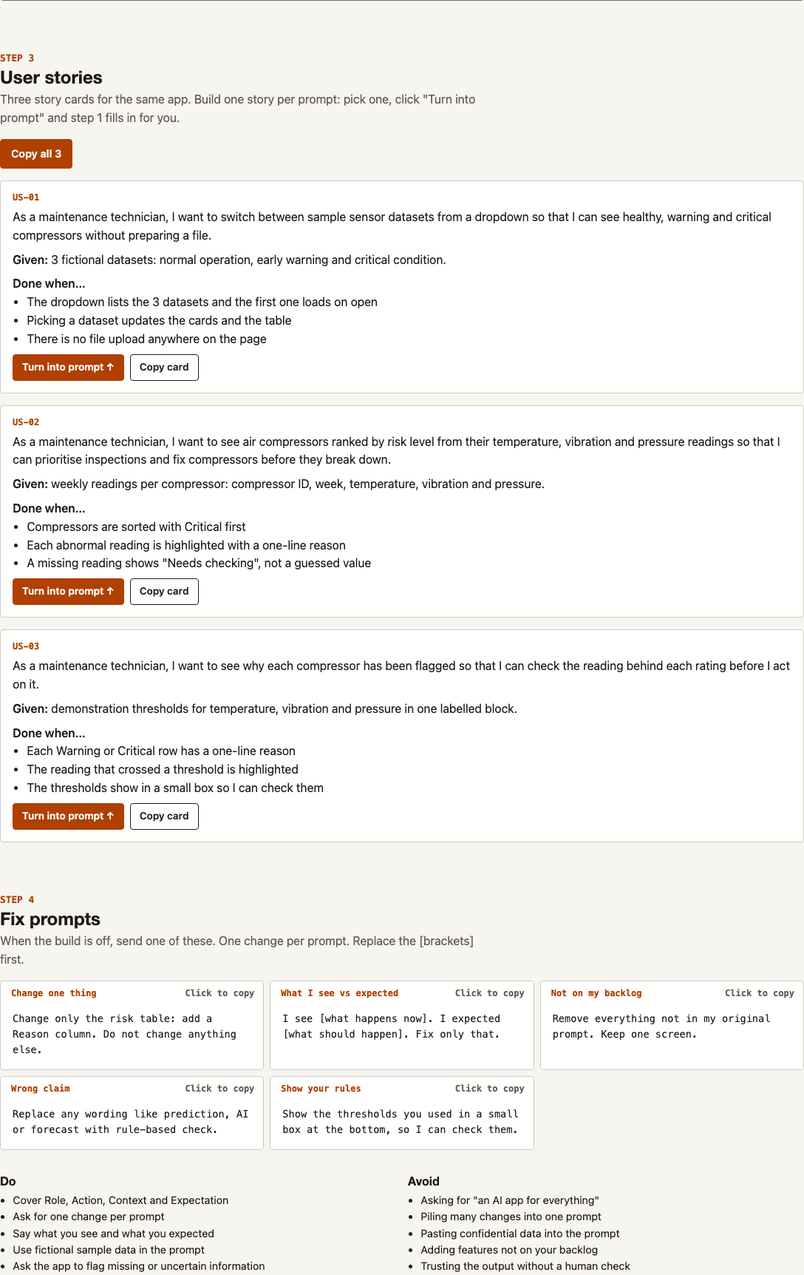
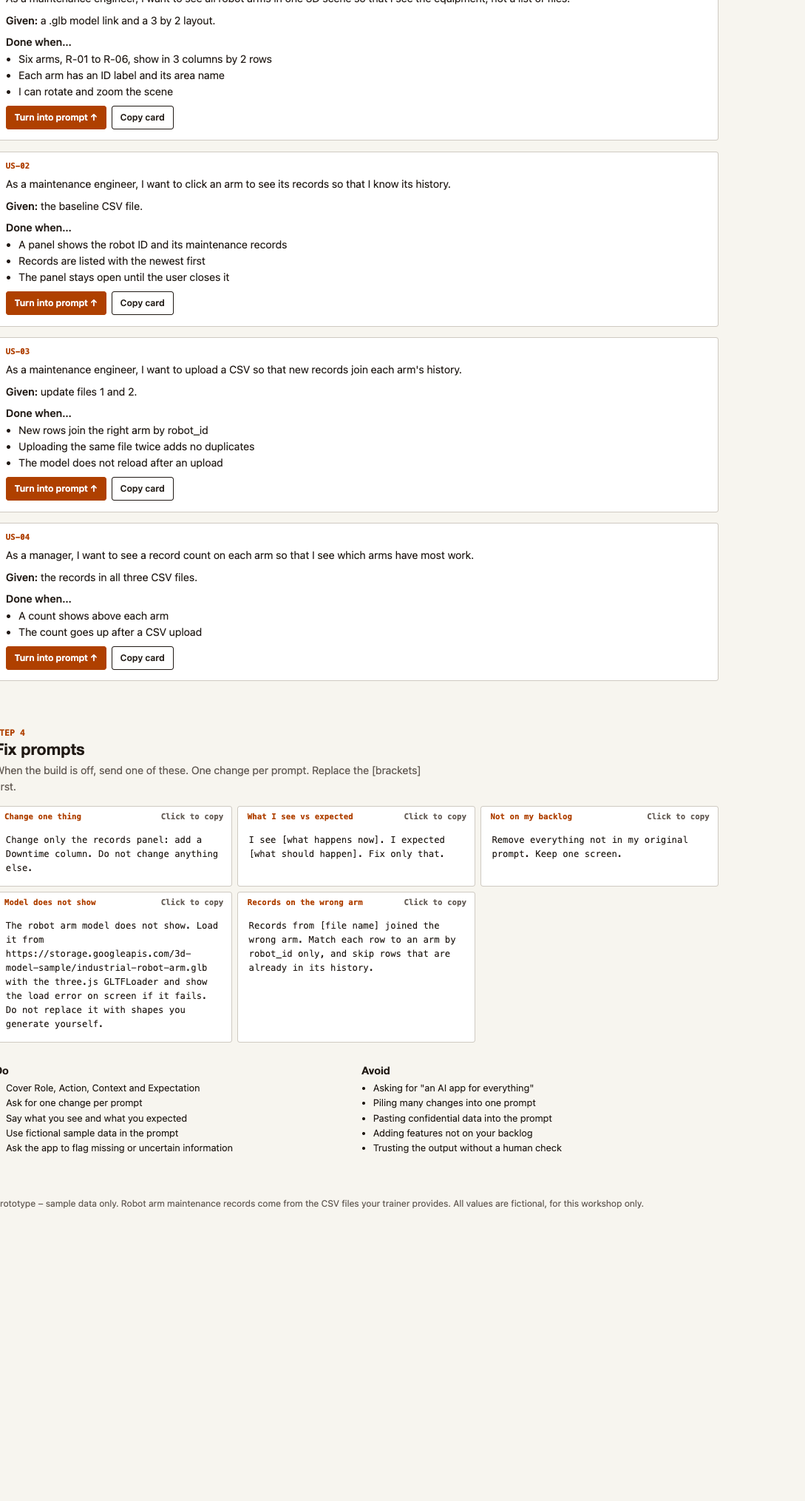
feat(cheatsheet): switch the whole page to the robot arm use case from deck v2.1
Deck v2.1 drops the air compressor example. Step 1 example is the click
story (slides 29-30), step 2 is the slide 52 live demo prompt only, step 3
has the four slide 29 story cards, fix prompts target the robot arm. The
template follows slide 47: data is provided, no built-in samples dropdown.

diff --git a/training-cheatsheet/index.html b/training-cheatsheet/index.html
@@ -166,10 +166,10 @@ footer { padding: var(--space-xl) 0 var(--space-lg); color: var(--color-muted); 
 
 <header class="top">
   <h1>AI Ideation Cheatsheet</h1>
-  <p class="lede">Write one story card. Each line of the card fills one part of a RACE prompt: Role, Action, Context, Expectation. Copy the prompt and paste it into your AI tool. Training exercise: air compressor health monitor.</p>
+  <p class="lede">Write one story card. Each line of the card fills one part of a RACE prompt: Role, Action, Context, Expectation. Copy the prompt and paste it into your AI tool. Training exercise: robot arm maintenance viewer.</p>
   <nav class="jump" aria-label="Sections">
     <a href="#notepad">1 Story card to prompt</a>
-    <a href="#sample">2 Sample prompts</a>
+    <a href="#sample">2 Sample prompt</a>
     <a href="#stories">3 User stories</a>
     <a href="#fix">4 Fix prompts</a>
   </nav>
@@ -195,7 +195,7 @@ footer { padding: var(--space-xl) 0 var(--space-lg); color: var(--color-muted); 
         <div class="field">
           <label for="f-user">As a [user]</label>
           <span class="hint">Tells the AI who it is building for. Write one job title, not "everyone".</span>
-          <input type="text" id="f-user" placeholder="maintenance technician">
+          <input type="text" id="f-user" placeholder="maintenance engineer">
         </div>
       </fieldset>
 
@@ -204,7 +204,7 @@ footer { padding: var(--space-xl) 0 var(--space-lg); color: var(--color-muted); 
         <div class="field">
           <label for="f-want">I want to [action]</label>
           <span class="hint">The one thing they do on the screen. Start with a verb. One story, one action.</span>
-          <input type="text" id="f-want" placeholder="see air compressors ranked by risk level">
+          <input type="text" id="f-want" placeholder="click an arm to see its records">
         </div>
       </fieldset>
 
@@ -213,22 +213,17 @@ footer { padding: var(--space-xl) 0 var(--space-lg); color: var(--color-muted); 
         <div class="field">
           <label for="f-so">So that [benefit]</label>
           <span class="hint">Why it matters to them. The AI uses it to decide what to put first; you test the build against it.</span>
-          <input type="text" id="f-so" placeholder="I can prioritise inspections before a breakdown">
+          <input type="text" id="f-so" placeholder="I know its history">
         </div>
         <div class="field">
           <label for="f-given">Given [data]</label>
-          <span class="hint">What the app works on. Name the readings or records and their columns, not a file type.</span>
-          <input type="text" id="f-given" placeholder="weekly readings per compressor: ID, week, temperature, vibration, pressure">
-        </div>
-        <div class="field">
-          <label for="f-cases">Fictional samples</label>
-          <span class="hint">The app builds these in, with a dropdown to switch, so nobody has to prepare a file. Write 3 lines: a name, then what you would see in the data (symptoms, not a label).</span>
-          <textarea id="f-cases" rows="3" placeholder="Normal Operation: temperature, vibration and pressure stay flat for all compressors&#10;Early Warning: ...&#10;Critical Condition: ..."></textarea>
+          <span class="hint">The files you give the app. Name them and their columns, so the AI does not make up its own data.</span>
+          <input type="text" id="f-given" placeholder="the baseline CSV file: date, robot_id, maintenance_type, technician, description, downtime_hours">
         </div>
         <div class="field">
           <label for="f-rules">Layout or rules <span class="from">optional</span></label>
-          <span class="hint">Fixed reference info the AI must not make up, such as limits or how to classify.</span>
-          <input type="text" id="f-rules" placeholder="Classify with demonstration thresholds kept in one labelled block">
+          <span class="hint">Fixed reference info the AI must not make up, such as the model link, the layout or names.</span>
+          <input type="text" id="f-rules" placeholder="Six arms, R-01 to R-06, in 3 columns by 2 rows">
         </div>
       </fieldset>
 
@@ -237,33 +232,33 @@ footer { padding: var(--space-xl) 0 var(--space-lg); color: var(--color-muted); 
         <div class="two">
           <div class="field">
             <label for="f-result">Show [result]</label>
-            <span class="hint">Name the columns or fields on screen.</span>
-            <input type="text" id="f-result" placeholder="compressor ID, readings, risk level, reason">
+            <span class="hint">Name what is on screen and the fields it shows.</span>
+            <input type="text" id="f-result" placeholder="the robot ID and its maintenance records">
           </div>
           <div class="field">
             <label for="f-fmt">as [layout]</label>
-            <span class="hint">Tables suit comparing, cards suit a quick status check.</span>
-            <select id="f-fmt"><option>table and cards</option><option>table</option><option>cards</option><option>list</option></select>
+            <span class="hint">Where it shows up on the screen.</span>
+            <select id="f-fmt"><option>a 3D scene with a records panel</option><option>table and cards</option><option>table</option><option>cards</option><option>list</option></select>
           </div>
         </div>
         <div class="field">
           <label for="f-done">Done when…</label>
           <span class="hint">2 or 3 checks you can see on screen. You read them aloud to test the build. One per line.</span>
-          <textarea id="f-done" rows="3" placeholder="Compressors are sorted with Critical first&#10;Each abnormal reading has a one-line reason&#10;A missing reading shows &quot;Needs checking&quot;"></textarea>
+          <textarea id="f-done" rows="3" placeholder="A panel shows the robot ID and its maintenance records&#10;Records are listed with the newest first&#10;The panel stays open until the user closes it"></textarea>
         </div>
         <div class="two">
           <div class="field">
             <label for="f-role">A [role] must review this</label>
             <span class="hint">The person who checks the output.</span>
-            <input type="text" id="f-role" placeholder="maintenance technician">
+            <input type="text" id="f-role" placeholder="maintenance engineer">
           </div>
           <div class="field">
             <label for="f-action">before [action]</label>
             <span class="hint">What needs a human check before it happens.</span>
-            <input type="text" id="f-action" placeholder="scheduling maintenance">
+            <input type="text" id="f-action" placeholder="planning maintenance">
           </div>
         </div>
-        <p class="dod">Definition of Done, already in every prompt: works with the sample data, shows the review note, shows the "Prototype – sample data only" label.</p>
+        <p class="dod">Definition of Done, already in every prompt: works with the provided files, shows the review note, shows the "Prototype – sample data only" label.</p>
         <div class="field">
           <label for="f-donts">Do NOT list</label>
           <span class="hint">What the AI must leave out, so the first build stays small and quick to check. One per line.</span>
@@ -272,7 +267,7 @@ footer { padding: var(--space-xl) 0 var(--space-lg); color: var(--color-muted); 
       </fieldset>
 
       <div class="row">
-        <button class="btn" id="btn-sample" type="button">Fill with compressor example</button>
+        <button class="btn" id="btn-sample" type="button">Fill with robot arm example</button>
         <button class="btn" id="btn-clear" type="button">Clear</button>
       </div>
     </div>
@@ -304,8 +299,8 @@ footer { padding: var(--space-xl) 0 var(--space-lg); color: var(--color-muted); 
 <!-- 2 SAMPLE PROMPT -->
 <section id="sample">
   <span class="step">STEP 2</span>
-  <h2>Sample prompts: ready to paste</h2>
-  <p class="sub">Two use cases as RACE prompts. Click a box to copy. The compressor prompt ends with a Do NOT block that keeps the build small. The robot arm prompt uses the three maintenance CSV files from your trainer, so it asks for a CSV upload and no sample data.</p>
+  <h2>Sample prompt: ready to paste</h2>
+  <p class="sub">The robot arm viewer from the live demo, as one RACE prompt that covers all four story cards. Click the box to copy. It loads the robot arm model from a link and uses the three maintenance CSV files from your trainer, so it asks for a CSV upload and no sample data.</p>
   <div class="stack" id="sample-prompt"></div>
 </section>
 
@@ -313,9 +308,9 @@ footer { padding: var(--space-xl) 0 var(--space-lg); color: var(--color-muted); 
 <section id="stories">
   <span class="step">STEP 3</span>
   <h2>User stories</h2>
-  <p class="sub">Three story cards for the same app. Build one story per prompt: pick one, click "Turn into prompt" and step 1 fills in for you.</p>
+  <p class="sub">Four story cards for the robot arm viewer. Build one story per prompt: pick one, click "Turn into prompt" and step 1 fills in for you.</p>
   <div class="row" style="margin-bottom: var(--space-md)">
-    <button class="btn primary" id="btn-copy-all" type="button">Copy all 3</button>
+    <button class="btn primary" id="btn-copy-all" type="button">Copy all 4</button>
   </div>
   <div class="stories" id="story-list"></div>
 </section>
@@ -351,34 +346,34 @@ footer { padding: var(--space-xl) 0 var(--space-lg); color: var(--color-muted); 
   </div>
 </section>
 
-<footer>Prototype – sample data only. All compressor data, thresholds and ratings are fictional. Robot arm maintenance records come from the CSV files your trainer provides.</footer>
+<footer>Prototype – sample data only. Robot arm maintenance records come from the CSV files your trainer provides. All values are fictional, for this workshop only.</footer>
 </div>
 
 <script>
-const DONTS = `add file upload, login, database, backend or file saving. Everything runs in the browser.
-call the results "predictions" or "AI". They are rule-based checks.
-invent values for missing data.
+const DONTS = `add login, database or backend. Everything runs in the browser.
+generate sample data or invent values for missing data. Use only the provided files.
+replace the provided model with shapes you generate yourself.
 add features that are not in this prompt: no extra pages, settings, export, alerts or emails.
-add charts. Cards and a table only.
-use real company or equipment data.
-add libraries. One HTML file.`;
+add libraries other than three.js.`;
 
+const MODEL = 'https://storage.googleapis.com/3d-model-sample/industrial-robot-arm.glb';
+
+// Slide 30 sample answer: the click story with its done when checks
 const EXAMPLE = {
-  user: 'maintenance technician',
-  want: 'see air compressors ranked by risk level from their temperature, vibration and pressure readings',
-  so: 'I can prioritise inspections and fix compressors before they break down',
-  given: 'weekly readings per compressor: compressor ID, week, temperature, vibration and pressure',
-  cases: 'Normal Operation: temperature, vibration and pressure stay flat across all weeks for every compressor. No readings are missing.\nEarly Warning: 2 to 3 compressors show temperature creeping up week after week, vibration slowly rising, and occasional pressure dips. Nothing has crossed a limit yet.\nCritical Condition: several compressors run well above normal temperature with high, fast-rising vibration and repeated pressure drops. They need inspection now.',
-  rules: 'Classify with simple demonstration thresholds (Healthy, Warning, Critical). Keep the thresholds in one clearly labelled block so they are easy to edit.',
-  result: 'summary cards (Total, Healthy, Warning, Critical) and a risk ranking with compressor ID, readings, risk level, reason and recommended inspection',
-  fmt: 'table and cards',
-  done: 'Compressors are sorted with Critical first\nEach abnormal reading is highlighted with a one-line reason\nA missing reading shows "Needs checking", not a guessed value',
-  role: 'maintenance technician',
-  action: 'scheduling maintenance or shutting down equipment',
+  user: 'maintenance engineer',
+  want: 'click an arm to see its records',
+  so: 'I know its history',
+  given: 'the baseline CSV file of maintenance records, with columns date, robot_id, maintenance_type, technician, description and downtime_hours',
+  rules: `Load the robot arm model once from ${MODEL} with the three.js GLTFLoader and clone it for six arms, R-01 to R-06, in 3 columns by 2 rows, 6 units apart, with the area name under each arm: Stamping Shop, Body Shop, Paint Shop, Assembly Hall, Engine Plant, Warehouse.`,
+  result: 'the six arms and the clicked arm\'s ID and maintenance records',
+  fmt: 'a 3D scene with a records panel',
+  done: 'A panel shows the robot ID and its maintenance records\nRecords are listed with the newest first\nThe panel stays open until the user closes it',
+  role: 'maintenance engineer',
+  action: 'planning maintenance from these records',
   donts: DONTS
 };
 
-// Use case 2: copied as written, not built with buildPrompt(). It works on provided CSV files (slide 47), so it has no samples dropdown.
+// Slide 52 live demo prompt, copied as written, not built with buildPrompt(). It covers all four story cards.
 const ROBOT_ARM = `Role: You are a front-end developer building a prototype web app for maintenance engineers and managers at an automotive plant.
 
 Action: Build a one-screen three.js app: load a robot arm model (.glb) from a public URL and show six arms, R-01 to R-06, in one 3D scene. Clicking an arm selects it and shows its maintenance records; uploading a CSV adds rows to its history.
@@ -388,25 +383,30 @@ Context: Load the robot arm model from this URL using the three.js GLTFLoader: h
 Expectation: Show a "Loading model..." message while the model downloads. If it fails to load, show a clear error message with the reason instead of an empty scene. Each arm has an ID label, and the user can rotate and zoom. Clicking an arm highlights it and opens a panel with all the arm's records, newest first. The panel stays open when the pointer moves away; it closes only with the close button, a click on an empty area, or a click on a different arm, which replaces the content. A drag to rotate or pan must not count as a click. Load the model and build the scene once at startup; selecting an arm, zooming, panning and CSV updates must never reload the model or rebuild the scene. New CSV rows join the right arm without duplicates, and each arm shows its record count.`;
 
 const STORIES = [
-  { id: 'US-01', user: 'maintenance technician',
-    want: 'switch between sample sensor datasets from a dropdown',
-    so: 'I can see healthy, warning and critical compressors without preparing a file',
-    given: '3 fictional datasets: normal operation, early warning and critical condition',
-    done: 'The dropdown lists the 3 datasets and the first one loads on open\nPicking a dataset updates the cards and the table\nThere is no file upload anywhere on the page' },
-  { id: 'US-02', user: EXAMPLE.user, want: EXAMPLE.want, so: EXAMPLE.so, given: EXAMPLE.given, done: EXAMPLE.done },
-  { id: 'US-03', user: 'maintenance technician',
-    want: 'see why each compressor has been flagged',
-    so: 'I can check the reading behind each rating before I act on it',
-    given: 'demonstration thresholds for temperature, vibration and pressure in one labelled block',
-    done: 'Each Warning or Critical row has a one-line reason\nThe reading that crossed a threshold is highlighted\nThe thresholds show in a small box so I can check them' }
+  { id: 'US-01', user: 'maintenance engineer',
+    want: 'see all robot arms in one 3D scene',
+    so: 'I see the equipment, not a list of files',
+    given: 'a .glb model link and a 3 by 2 layout',
+    done: 'Six arms, R-01 to R-06, show in 3 columns by 2 rows\nEach arm has an ID label and its area name\nI can rotate and zoom the scene' },
+  { id: 'US-02', user: EXAMPLE.user, want: EXAMPLE.want, so: EXAMPLE.so, given: 'the baseline CSV file', done: EXAMPLE.done },
+  { id: 'US-03', user: 'maintenance engineer',
+    want: 'upload a CSV',
+    so: 'new records join each arm\'s history',
+    given: 'update files 1 and 2',
+    done: 'New rows join the right arm by robot_id\nUploading the same file twice adds no duplicates\nThe model does not reload after an upload' },
+  { id: 'US-04', user: 'manager',
+    want: 'see a record count on each arm',
+    so: 'I see which arms have most work',
+    given: 'the records in all three CSV files',
+    done: 'A count shows above each arm\nThe count goes up after a CSV upload' }
 ];
 
 const FIXES = [
-  ['Change one thing', 'Change only the risk table: add a Reason column. Do not change anything else.'],
+  ['Change one thing', 'Change only the records panel: add a Downtime column. Do not change anything else.'],
   ['What I see vs expected', 'I see [what happens now]. I expected [what should happen]. Fix only that.'],
   ['Not on my backlog', 'Remove everything not in my original prompt. Keep one screen.'],
-  ['Wrong claim', 'Replace any wording like prediction, AI or forecast with rule-based check.'],
-  ['Show your rules', 'Show the thresholds you used in a small box at the bottom, so I can check them.']
+  ['Model does not show', `The robot arm model does not show. Load it from ${MODEL} with the three.js GLTFLoader and show the load error on screen if it fails. Do not replace it with shapes you generate yourself.`],
+  ['Records on the wrong arm', 'Records from [file name] joined the wrong arm. Match each row to an arm by robot_id only, and skip rows that are already in its history.']
 ];
 
 /* copy helper */
@@ -469,19 +469,17 @@ function buildPrompt(d) {
   const so = val('so', 'benefit', 'C'), given = val('given', 'data', 'C');
   const result = val('result', 'result', 'E');
   const role = val('role', 'role', 'E'), action = val('action', 'action before review', 'E');
-  const cases = lines(d.cases), done = lines(d.done), donts = lines(d.donts);
-  if (!cases.length) { missing.add('samples'); letters.C = false; }
+  const done = lines(d.done), donts = lines(d.donts);
   if (!done.length) { missing.add('done when'); letters.E = false; }
-  const caseTxt = cases.length ? cases.map((c, i) => `${i + 1}. ${c}`).join('\n') : '[describe each sample]';
   const doneTxt = done.length ? done.map(c => '- ' + c).join('\n') : '- [check you can see on screen]';
   const rules = (d.rules || '').trim();
 
   let t = `Role: You are a developer building a prototype for ${article(user)}.\n\n` +
     `Action: Build a one-screen web app where ${article(user)} can ${want}.\n\n` +
     `Context: The user story is "As ${article(user)}, I want to ${want} so that ${so}." ` +
-    `Given: ${given}. Build in ${cases.length || 3} fictional sample datasets and a dropdown at the top to switch between them, instead of a file upload. Load the first one when the page opens:\n${caseTxt}` +
-    (rules ? `\n${rules}` : '') + `\n\n` +
-    `Expectation: Show ${result} as ${d.fmt || 'table and cards'}. It is done when:\n${doneTxt}\n` +
+    `Given: ${given}. This data is provided, so do not generate sample data.` +
+    (rules ? ` ${rules}` : '') + `\n\n` +
+    `Expectation: Show ${result} as ${d.fmt || 'a 3D scene with a records panel'}. It is done when:\n${doneTxt}\n` +
     `If the data is incomplete, list what is missing instead of guessing. Mark anything uncertain as "Needs checking". ` +
     `Add the note "A ${role} must review this before ${action}." Label it "Prototype – sample data only".`;
   if (donts.length) t += `\n\nDo NOT:\n${donts.map(s => '- ' + s).join('\n')}`;
@@ -498,12 +496,11 @@ function buildStory(d) {
 
 /* 2 sample */
 document.getElementById('sample-prompt').append(
-  copyBlock(buildPrompt(EXAMPLE).text, 'Use case 1 · Air compressor health monitor'),
-  copyBlock(ROBOT_ARM, 'Use case 2 · Robot arm maintenance viewer (3D)'));
+  copyBlock(ROBOT_ARM, 'Robot arm maintenance viewer (3D) · live demo prompt'));
 
 /* 1 notepad */
 const $ = id => document.getElementById(id);
-const ids = ['user', 'want', 'so', 'given', 'cases', 'rules', 'result', 'fmt', 'done', 'role', 'action', 'donts'];
+const ids = ['user', 'want', 'so', 'given', 'rules', 'result', 'fmt', 'done', 'role', 'action', 'donts'];
 const F = Object.fromEntries(ids.map(i => [i, $('f-' + i)]));
 const out = $('out-prompt'), so = $('out-story');
 const read = () => Object.fromEntries(ids.map(i => [i, F[i].value]));
@@ -545,9 +542,9 @@ STORIES.forEach(s => {
     `<div class="row"><button class="btn small primary" type="button" data-act="use">Turn into prompt ↑</button>` +
     `<button class="btn small" type="button" data-act="copy">Copy card</button></div>`;
   card.querySelector('[data-act="use"]').addEventListener('click', () => {
-    // swap in this card's lines; app-wide boxes keep what is typed, empty ones take the compressor example
+    // swap in this card's lines; app-wide boxes keep what is typed, empty ones take the robot arm example
     const keep = {};
-    ['cases', 'rules', 'result', 'role', 'action'].forEach(k => { if (!F[k].value.trim()) keep[k] = EXAMPLE[k]; });
+    ['rules', 'result', 'role', 'action'].forEach(k => { if (!F[k].value.trim()) keep[k] = EXAMPLE[k]; });
     fill({ ...keep, user: s.user, want: s.want, so: s.so, given: s.given, done: s.done });
     $('notepad').scrollIntoView({ behavior: 'smooth', block: 'start' });
     F.want.focus({ preventScroll: true });

diff --git a/training-cheatsheet/README.md b/training-cheatsheet/README.md
@@ -1,10 +1,10 @@
 # AI Ideation Cheatsheet
 
-A one-page worksheet for a training session. You write one user story card, the page turns it into a RACE build prompt (Role, Action, Context, Expectation), and you paste it into your AI tool. It follows slides 43–48 of the *AI Ideation & Prototyping* deck. The worked example is an air compressor health monitor for plant maintenance technicians.
+A one-page worksheet for a training session. You write one user story card, the page turns it into a RACE build prompt (Role, Action, Context, Expectation), and you paste it into your AI tool. It follows slides 43–52 of the *AI Ideation & Prototyping* deck (v2.1). The worked example is the deck's robot arm maintenance viewer: six three.js robot arms whose maintenance records come from the trainer's CSV files.
 
 The page is one self-contained `index.html`: no build step, no backend, no external scripts or fonts.
 
-![Story card fields grouped by RACE letter, with the compressor example filled in](docs/screenshots/notepad.png)
+![Story card fields grouped by RACE letter, with the robot arm example filled in](docs/screenshots/notepad.png)
 
 ## Run it
 
@@ -16,18 +16,18 @@ python3 -m http.server 8080
 
 ## The four sections
 
-1. **Story card to RACE prompt.** The fields are grouped by letter: As a → Role, I want to → Action, So that + Given + samples → Context, Done when + review step → Expectation. The RACE prompt and the story card on the right update as you type. Empty fields stay as `[brackets]`, and the R A C E badges stay dashed until each letter has an answer ("check before you build").
-2. **Sample prompts.** Two finished RACE prompts: the compressor monitor, and a three.js robot arm maintenance viewer that works on the trainer's CSV files. Click to copy.
-3. **User stories.** Three story cards (As a / Given / Done when) for the same app. "Turn into prompt" loads a card into step 1; copy one or all three.
+1. **Story card to RACE prompt.** The fields are grouped by letter: As a → Role, I want to → Action, So that + Given + layout → Context, Done when + review step → Expectation. The RACE prompt and the story card on the right update as you type. Empty fields stay as `[brackets]`, and the R A C E badges stay dashed until each letter has an answer ("check before you build").
+2. **Sample prompt.** The live demo prompt from slide 52: the three.js robot arm viewer that loads the model from a link and works on the trainer's CSV files. Click to copy.
+3. **User stories.** The four story cards from slide 29 (As a / Given / Done when). The click story uses the slide 30 checks. "Turn into prompt" loads a card into step 1; copy one or all three.
 4. **Fix prompts.** Five one-change follow-ups (including "what I see vs expected"), plus the slide's Do / Avoid golden rules.
 
-![Sample prompt ending in a Do NOT block](docs/screenshots/sample-prompt.png)
+![Robot arm live demo prompt](docs/screenshots/sample-prompt.png)
 
 ![User stories and fix prompts](docs/screenshots/stories-and-fixes.png)
 
-The template and the compressor prompt ask for fictional sample datasets built into the app, with a dropdown to switch between them. Nobody has to prepare or upload a file to test it.
+The template follows slide 47: the data is provided, so the prompt says "do not generate sample data".
 
-The template and the compressor prompt end with a `Do NOT:` block. It keeps the generated app small: no login, no backend, no charts, no "AI" or "prediction" wording, no invented values for missing data.
+The template ends with a `Do NOT:` block. It keeps the generated app small: no login or backend, no invented values, no generated stand-in for the model, no extra features, no libraries besides three.js.
 
 ## Deploy to Cloud Run
 

diff --git a/training-cheatsheet/AGENTS.md b/training-cheatsheet/AGENTS.md
@@ -25,11 +25,11 @@ Run from this folder. `--source .` builds the `Dockerfile` with Cloud Build, so 
 ## Rules for edits
 
 - Keep `index.html` self-contained: no external scripts, fonts or images.
-- Keep the page to 4 sections: Story card to RACE prompt, Sample prompts, User stories (3), Fix prompts.
-- Step 2 has two use cases. Use case 1 (compressor) is built from `EXAMPLE` with `buildPrompt()`. Use case 2 (`ROBOT_ARM`, three.js robot arm maintenance viewer) is a fixed prompt pasted as written: it follows slide 47, so it uses the trainer's three CSV files, asks for CSV upload, says "do not generate sample data" and has no `Do NOT:` block. The rules below about built-in samples, no upload and the `Do NOT:` block apply to the template and use case 1, not to use case 2.
-- The page follows slides 43–48 of the *AI Ideation & Prototyping* deck (Module 04 · Prompting). Keep its words: Role, Action, Context, Expectation (RACE); story card lines As a, I want to, So that, Given, Done when; the slide colours R blue, A red, C yellow, E green.
-- One story card fills one RACE prompt: As a = R, I want to = A, So that + Given = C, Done when + Definition of Done = E. `buildPrompt()` is the only prompt builder; the sample prompt is built from `EXAMPLE` with it, so the two cannot drift.
-- Deliberate difference from slide 47: the slide says "Do not generate sample data" because trainees get data files. This page asks for built-in fictional samples instead (rule below), matching slide 48's "Use fictional sample data in the prompt".
-- The template asks for built-in sample datasets with a dropdown to switch between them, not a file upload. This keeps testing fast. Do not bring back upload, paste or enter options.
-- Sample descriptions describe observed symptoms in the data, not just a label.
-- Every prompt template ends with a `Do NOT:` block. There is no separate "what not to do" section.
+- Keep the page to 4 sections: Story card to RACE prompt, Sample prompt, User stories (4), Fix prompts.
+- The only use case is the deck's robot arm maintenance viewer (v2.1). The compressor example was removed when the deck dropped it.
+- Step 2 is `ROBOT_ARM`, the slide 52 live demo prompt pasted as written. Keep it word for word in step with the deck. It has no `Do NOT:` block.
+- Step 1's `EXAMPLE` is the click story (slides 29–30). Step 3's `STORIES` are the four slide 29 cards. The model URL lives in `MODEL`.
+- The page follows slides 43–52 of the *AI Ideation & Prototyping* deck (Module 04 · Prompting). Keep its words: Role, Action, Context, Expectation (RACE); story card lines As a, I want to, So that, Given, Done when; the slide colours R blue, A red, C yellow, E green.
+- One story card fills one RACE prompt: As a = R, I want to = A, So that + Given = C, Done when + Definition of Done = E. `buildPrompt()` is the only prompt builder for step 1.
+- The template follows slide 47: the trainer provides the data files, so it says "do not generate sample data". There is no built-in samples dropdown.
+- The step 1 template ends with a `Do NOT:` block. There is no separate "what not to do" section.
